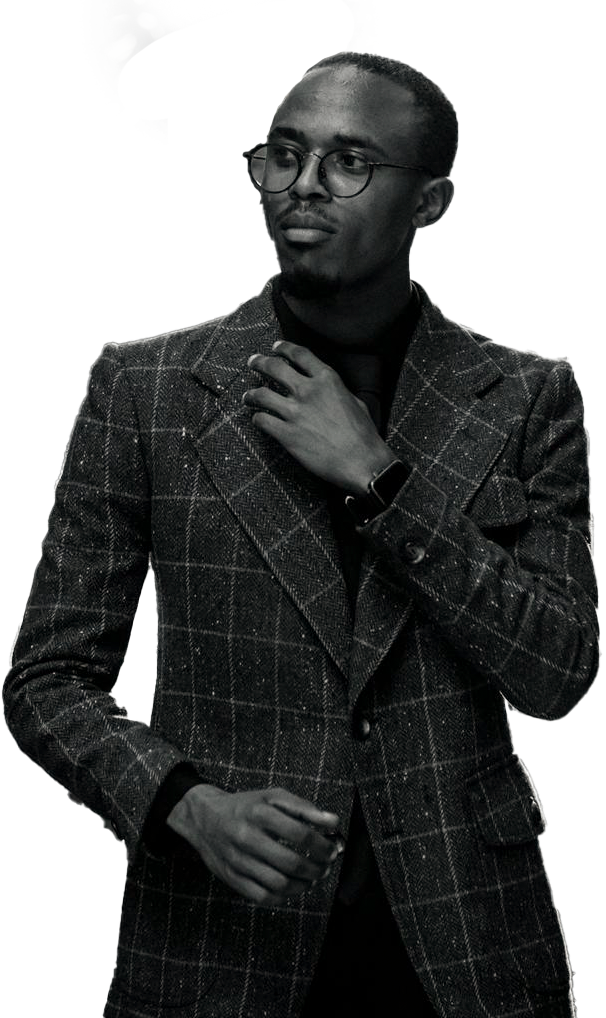
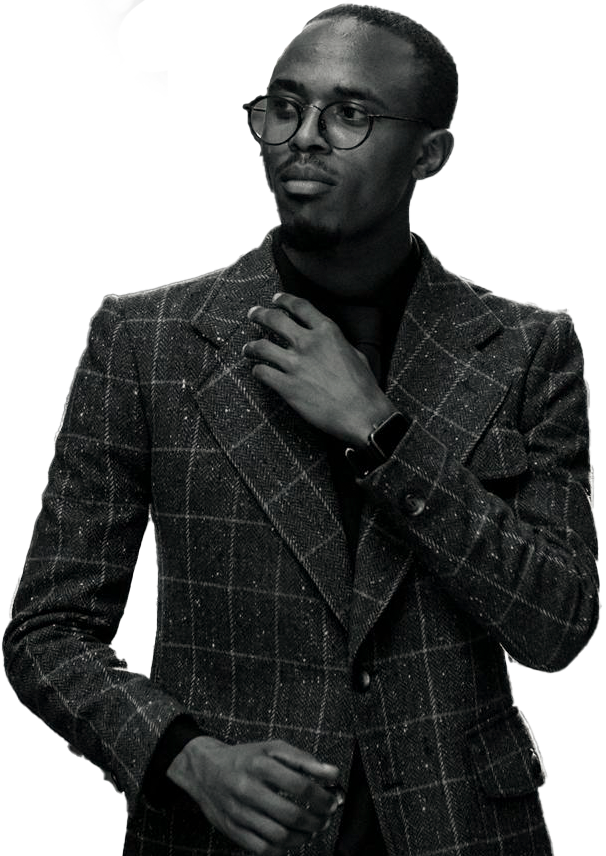
responsive

Changed region(s): [[0.0, 0.2734, 1.0, 1.0], [0.3861, 0.0, 0.7723, 0.2734], [0.6832, 0.2734, 0.7129, 0.3037]]

diff --git a/index.css b/index.css
@@ -1,55 +1,124 @@
 body {
     margin: 0;
-    padding: 0;
+    padding: 10px;
+    background-color: transparent;
+
+    background-image: url(./images/pexels-marek-piwnicki-3907296-11032450.jpg);
+    background-size: auto;
+    background-repeat: no-repeat;
+    opacity: o.3;
+}
+
+p,
+h1 {
+    font-family: sans-serif;
 }
 
 .head {
-    flex-grow: 1;
-    height: 40vh;
-    background-image: url(./images/pexels-sevenstormphotography-1187538.jpg);
-    background-size: cover;
-    padding-top: 20px;
+    height: auto;
+    background-color: transparent;
 }
 
+
 @media(max-width: 600px) {
-    .head {
-        padding: 10px;
-        font-size: 14px;
+    body {
+        padding: 5px;
     }
-    .ido{
+
+    .head {
+        height: auto;
+        border: 2px solid black;
+        border-radius: 20px;
+        box-shadow: 5px 5px 0px 0px rgb(15, 41, 48);
+    }
+
+    .ido {
         height: 35vh;
+    }
+
+    .contact {
+        margin-left: auto;
+    }
+
+    .second {
+        flex: 1;
+    }
+
+    .navbar {
+        gap: 2vh;
+        padding: 5px;
+    }
+
+    .navbar h1 {
+        font-size: smaller;
+    }
+
+    .id h1 {
+        font-size: medium;
+    }
+
+    .id p {
+        font-size: smaller;
     }
 }
 
 @media(min-width:601px) {
+
     .head {
-        padding: 20px;
-        font-size: 18px;
+        height: auto;
+        border: 2px solid black;
+        border-radius: 20px;
+        box-shadow: 5px 5px 0px 0px rgb(15, 41, 48);
     }
 
     .second {
         gap: 10vh;
     }
-    .ido{
+
+    .ido {
         height: 35vh;
+    }
+
+    .navbar {
+        gap: 4vh;
+        padding:  7px 40px 10px 20px;
+    }
+    .navbar h1{
+        font-size: small;
     }
 }
 
 @media(min-width:1000px) {
+
     .head {
-        padding: 30px;
-        padding-bottom: 0%;
-        font-size: 20px;
-        height: 60vh;
+        border: 2px solid #000000;
+        border-radius: 20px;
+        box-shadow: 5px 5px 0px 0px rgb(15, 41, 48);
+        height: auto;
+        background-color: transparent;
     }
 
     .second {
         gap: 15vh;
         margin-bottom: 0%;
-
+        flex: 1;
     }
-    .ido{
+
+    .ido {
         height: 50vh;
+    }
+
+    .navbar {
+        gap: 10vh;
+        padding: 7px 40px 10px 20px;
+    }
+
+    .navbar h1 {
+        font-size: medium;
+    }
+
+    .contact {
+        margin-left: auto;
     }
 }
 
@@ -60,24 +129,30 @@ body {
     height: auto;
 }
 
-.navbar h4 {
-    color: rgb(39, 121, 114);
+.navbar h1 {
+    color: rgb(148, 183, 179);
     margin: 0;
     padding: 0;
 }
 
+.about {
+    display: flex;
+    flex-direction: row;
+    align-items: center;
+}
+
 button {
     background-color: transparent;
-    width: 80px;
+    width: auto;
     height: 40px;
     border: none;
     cursor: pointer;
+    padding: 0px;
 }
 
 button h4:hover {
-    font-size: large;
     color: greenyellow;
-    background-color: rgb(150, 157, 157);
+    background-color: rgb(125, 198, 198);
     border-radius: 20px;
 
 }
@@ -86,15 +161,15 @@ a {
     text-decoration: none;
 }
 
-.contact {
-    margin-left: auto;
-}
+
 
 
 
 .write,
 .gra {
     color: greenyellow;
+    padding: 0%;
+    margin: 0%;
 }
 
 .id h1,
@@ -114,27 +189,17 @@ h3 {
     animation: baro 1s ease-out infinite;
 }
 
-@keyframes baro {
-    0% {
-        color: yellowgreen;
-        visibility: hidden;
-    }
 
-    100% {
-        color: transparent;
-    }
-}
 
 .second {
     display: flex;
     flex-direction: row;
     height: auto;
     justify-content: center;
-
 }
 
 .ido {
-   
+
     display: flex;
 
 }

diff --git a/index.html b/index.html
@@ -16,25 +16,28 @@
     <div class="head">
         <div class="navbar">
             <button class="home"><a href="/home">
-                    <h4>Home</h4>
+                    <h1>Home</h1>
                 </a></button>
             <button class="blog"><a href="/blog">
-                    <h4>Blog</h4>
+                    <h1>Blog</h1>
+                </a></button>
+            <button class="about"><a href="/about">
+                    <h1>About me</h1>
                 </a></button>
             <button class="contact"><a href="/contact">
-                    <h4>Contact</h4>
+                    <h1>Contact</h1>
                 </a></button>
         </div>
         <div class="second">
             <div class="id">
                 <div class="write">
                     <h1 class="name">I'm Elvintos|</h1>
-                    <h1 class="bar"></h1>
                 </div>
-                <h3 class="gra">Graphic designer</h3>
+                <p class="gra">Graphic designer</p>
+                <p class="gra">Photographer</p>
             </div>
-            <img class="ido" src="./images/ido png.png" alt="">
-        </div>
+            <img class="ido" src="./images/idooo.png" alt="">
+        </div!-->
     </div>
 
 
